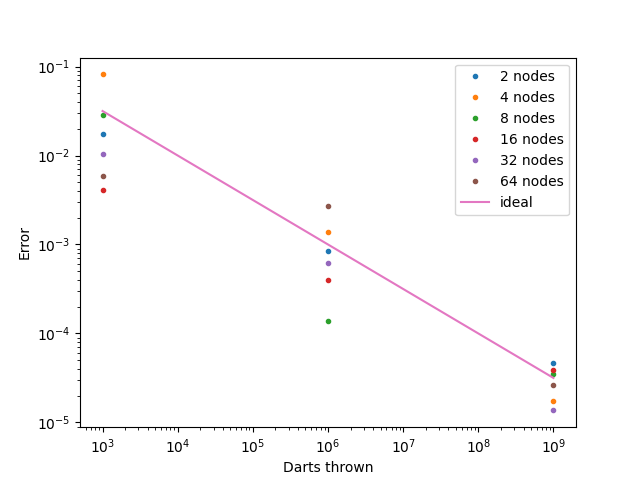
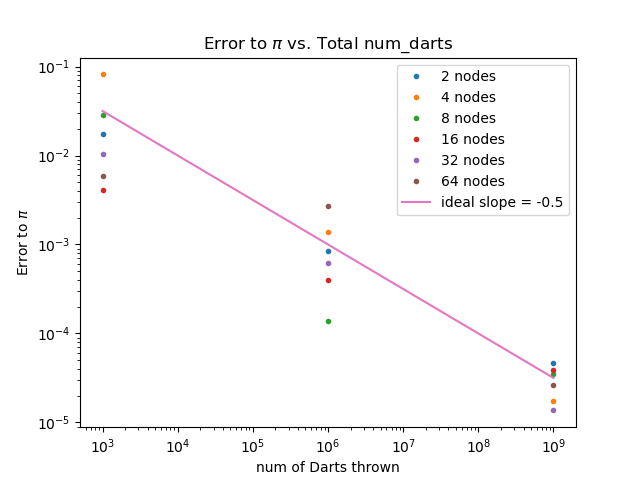
1)Add comments to interpretate the results; 2)Update code for plotting

diff --git a/report/writeup.md b/report/writeup.md
@@ -199,7 +199,8 @@ We added the commands `MPI_Init` and `MPI_Finalize`, and put three different sta
 ### Q5  
 Excercise 2.3, 2.4, 2.5 from Parallel Programming Book. 
 
-#### Exercise 2.3 Use the command `MPI_Get_processor_name`. Confirm that you are able to run a program that uses two different nodes.
+#### Exercise 2.3 
+##### Use the command `MPI_Get_processor_name`. Confirm that you are able to run a program that uses two different nodes.
 
 Rewrite `hello.cpp` as `hello_for_E23.cpp` (already uploaded) and run it on amd20 using 2 nodes, the output results are as follows. We can use `MPI_Get_processor_name` to see that the program ran on two nodes, `lac-215` and `lac-216`, respectively.
 
@@ -213,7 +214,8 @@ Hello, World!
 Rank: 1. Size: 2
 ```
 
-#### Exercise 2.4 Write a program where each process prints out a message reporting its number, and how many processes there are. Write a second version of this program, where each process opens a unique file and writes to it. On some clusters this may not be advisable if you have large numbers of processors, since it can overload the file system.
+#### Exercise 2.4 
+##### Write a program where each process prints out a message reporting its number, and how many processes there are. Write a second version of this program, where each process opens a unique file and writes to it. On some clusters this may not be advisable if you have large numbers of processors, since it can overload the file system.
 
 The `hello_mpi.cpp` program includes the functionality to output the rank and size. I used 4 processors, and part of the output results are as follows. We can see that the 4 processors independently output their respective results and their corresponding ranks in sequence.
 
@@ -240,9 +242,9 @@ Hello, World. Rank: 0. Size: 2
 Hello, World. Rank: 1. Size: 2
 ```
 
-<br>
   
-#### Exercise 2.5 Write a program where only the process with number zero reports on how many processes there are in total.
+#### Exercise 2.5 
+##### Write a program where only the process with number zero reports on how many processes there are in total.
 
 Based on the previous code, I added the conditional statement `if (rank == 0)` to complete the new code `hello_for_E25.cpp`, which meets the requirements. I used 4 processors, and the output results are as follows:
 
@@ -255,3 +257,67 @@ Total number of processes: 4
 <br>
   
 ## Part 4: Eat Some Pi
+#### Q1 
+Extend the `ser_pi_calc` program file using collective MPI routines to compute pi in parallel using the method described above.   
+-New program file (with the same name) can be found in the Github repository.
+#### Q2 
+For the first iteration, perform the same number of "rounds" on each MPI rank. Measure the total runtime using `MPI_WTIME()`. Vary the number of ranks used from 1 to 4. How does the total runtime change?  
+-The total runtime did not change.
+
+#### Q3 
+Divide the number of "rounds" up amongst the number of ranks using the appropriate MPI routines to decide how to distribute the work. Again, run the program on 1 to 4 ranks. How does the runtime vary now?  
+-The total runtime decreased.
+
+#### Q4 
+Change the number of "darts" and ranks. Use your MPI program to compute `pi` using total numbers of "darts" of 1E3, 1E6, and 1E9\. For each dart count, run your code on HPCC with processor counts of 1, 2, 4, 8, 16, 32, and 64\. Keep track of the resulting value of `pi` and the runtimes. Use non-interactive jobs and modify the `submitjob.sb` script as necessary. 
+
+#### Q5 
+For each processor count, plot the resulting errors in your computed values of `pi` compared to the true value as functions of the number of darts used to compute it. Use log-log scaling on this plot. What is the rate of convergence of your algorithm for computing `pi`? Does this value make sense? Does the error or rate of convergence to the correct answer vary with processor count? Should it?   
+-See comments below.
+
+#### Q6 
+For each dart count, make a plot of runtime versus processor count. Each line represents a "strong scaling" study for your code. For each dart count, also plot the "ideal" scaling line. Calculate the parallel scaling efficiency of your code for each dart count. Does the parallel performance vary with dart count? Explain your answer.    
+-See comments below.
+
+#### Q7 
+Try running your code on different node types on HPCC with varied core counts. In particular, try to ensure that your runs utilize multiple nodes so that the communication network is used. Do you see a change in the communication cost when the job is run on more than one node?  
+
+*(The code of plotting could be found at '/results/runtime_plot.ipynb'
+)*
+
+![time_nodes](/results/time_scaling.png "time_scaling")
+#### **Comments**
+- We observed interesting patterns from the plot.  
+  Perform the same number of 'rounds' on each rank, when the number of darts is small ($10^3, 10^6$), as the number of nodes increases, the total runtime slightly increases; when the number of darts is larger ($10^9$), as the number of nodes increases, the total runtime obviously decreases.  
+     
+- This observed behavior is influenced by a balance between **computational workload** and **parallel overhead among the nodes**. In the context of parallel computing, "overhead" refers to the extra work and time required to manage the parallel processes. It includes the time spent on starting up and shutting down the parallel environment, communicating between nodes, synchronizing processes, and any additional operations that are necessary only because the task is being run in parallel rather than sequentially.  
+
+- For a small number of darts, the workload done by each node is quite small, and the overhead of initializing MPI environment, distributing workload among nodes, synchronization(mpi_barrier) and communication(mpi_reduce) can dominate the actual run time. Each node spends more time waiting for synchronization and communication than doing the actual computation. Therefore, there is less workload than overhead, there is not enough computational workload to benefit from the parallel structure, leading to the patterns we observed when num_of_nodes are 10^3, 10^6: the total run time slightly increases as number of nodes increases.  
+
+- For a large number of darts, the workload done by each node is substantial enough so that the time for actual computation is significantly comparable to the overhead time. To be more specific, each node can perform a significant amount of actual computation before need to synchronize or communicate with other nodes. In this case, when the total workload is fixed, as the parallel resources(num_of_nodes) increases, the total run time decreases, which showcases the benefits of parallel computing.
+
+- In summary, what we learned is that for parallel computing, there is a crossover point where the increase in parallel resources starts to show benefits(in this problem, parallel resources are the number of nodes). Below this point, overheads donimate; above this point, actual computation can efficiently utilize the parallel structure.
+
+
+![error_nundarts](/results/error_scaling.png "error_scaling")
+
+#### **Comments**
+- We converted *num_of_darts* and *error* into log scale and then computed the slope of the relationship between num_of_darts and the error of estimated Pi value.  
+
+- Slope interpretation  
+1) Negativity:   
+The negative slope of the line shows that as the number of darts increases, the error decreases.  
+  
+2) Slope value:   
+In an ideal Monte Carlo simulation for estimating Pi, the error should scale with $ \frac{1}{\sqrt{n}}$ where n is num_of_darts, due to *the law of large numbers theory*. This is because the standard deviation of the sample mean in Monte Carlo simulation decreases with $\frac{1}{\sqrt{n}}$ where n is the sample size. In the log-log scale, this relationship would be expected to have a slope of $ -\frac{1}{2}$. In the plot, this ideal $ -\frac{1}{2}$ slope line is shown in pink named 'ideal'.
+
+3) By comparing the slope of lines that drawn from our empirical results with the ideal slope of $ -\frac{1}{2}$, we can assess how well the simulation performs. The closer the empirical slopes are to $ -\frac{1}{2}$, the better the simulation is bahaving as theoretically expected. Our empirical results show that our mean_slope = -.04555 and std_slope = 0.0246, which implies that our simulation of estimating Pi behaves as it is theoretically expected :)
+
+
+
+
+
+
+
+
+
